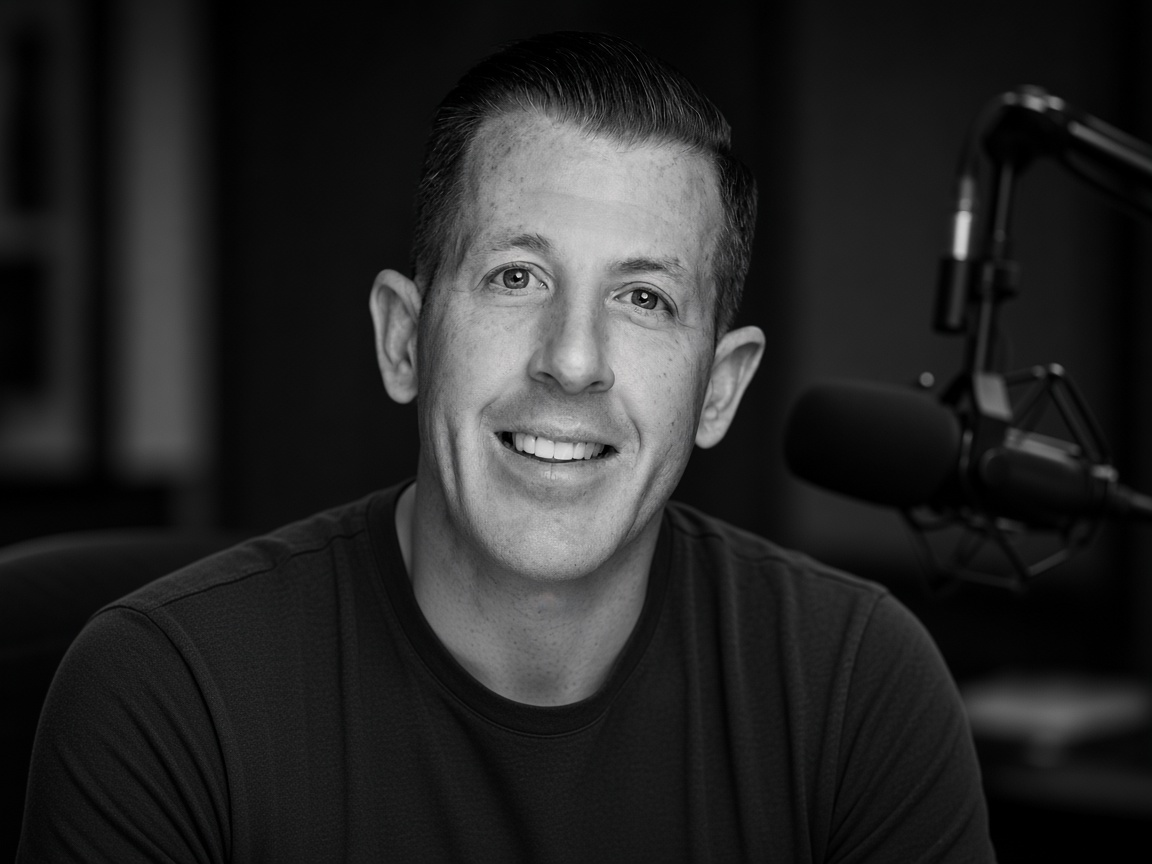
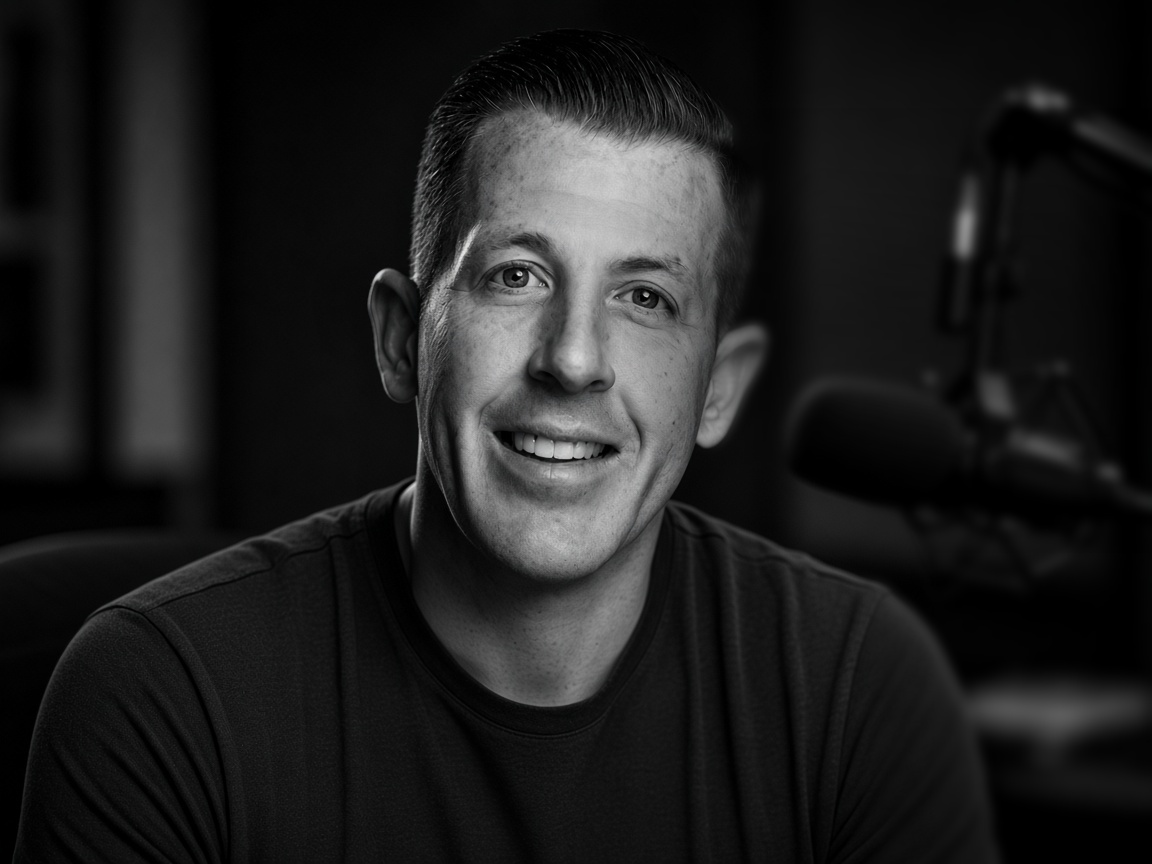
Podcast LP: use retouched Patrick headshot v5

diff --git a/upcoming-campaigns/podcast-landing-page/QUOTE-SOURCES.md b/upcoming-campaigns/podcast-landing-page/QUOTE-SOURCES.md
@@ -13,6 +13,6 @@ All quotes are Patrick Donohoe, lightly trimmed of filler only (~, like/you know
 | 7 | You can write certain rules around how you experience them as opposed to the rules being written for you. | E.485 | ~4:23 | same (Right/Center; wording aligned to Right track clean read) |
 | 8 | But you can write your rules. | E.485 | ~14:20 | same Center: "And the drive is within all of us. But you can write your rules." |
 
-Host photo: Rachel's pick (mic behind him)  
-`/cursor/stores/user/grok-bot/agents/6e872b1b-ec06-426b-8d90-92e8d9bf57bf/assets/5d0e403afcca6d2f453ca3bd82c6b992e2f36bfd027f066535cf47ba3bb41431.jpg`  
+Host photo: retouched mic-behind headshot  
+`/workspace/pat-photos/pat-headshot-v5.jpg`  
 → mockup `patrick-host.jpg`
